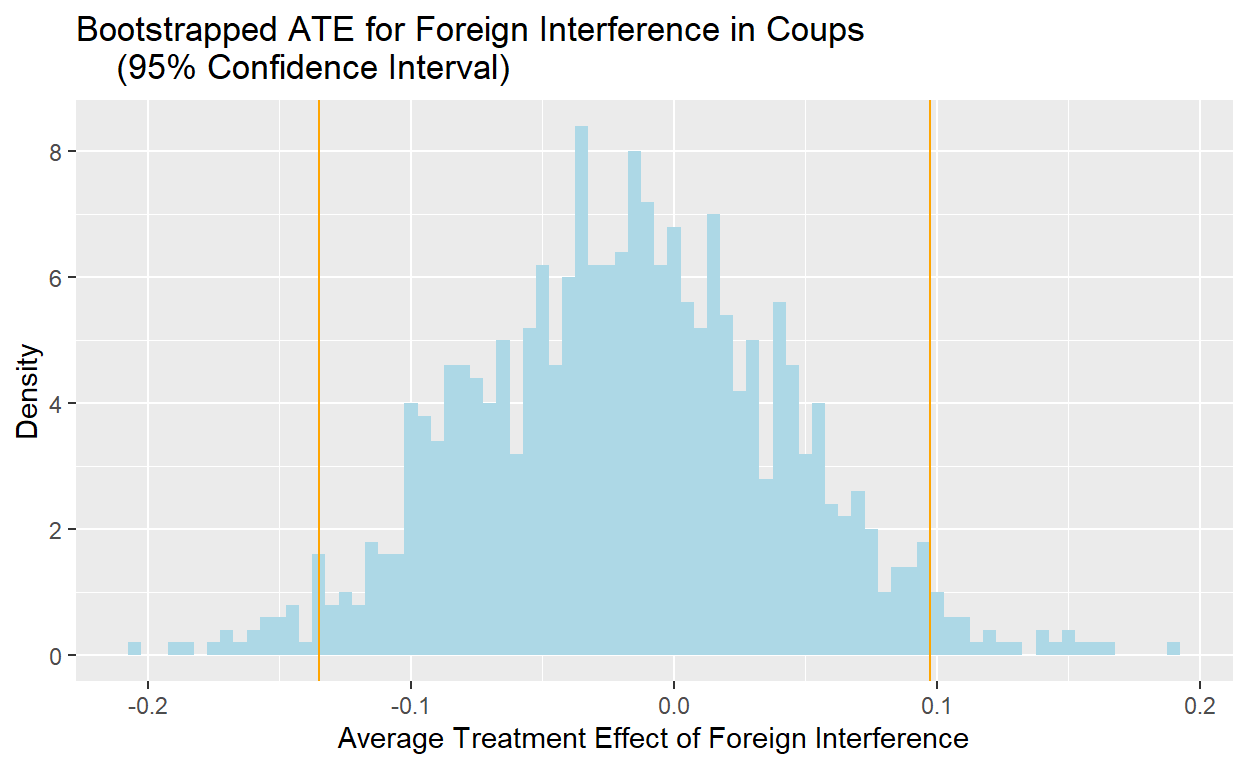
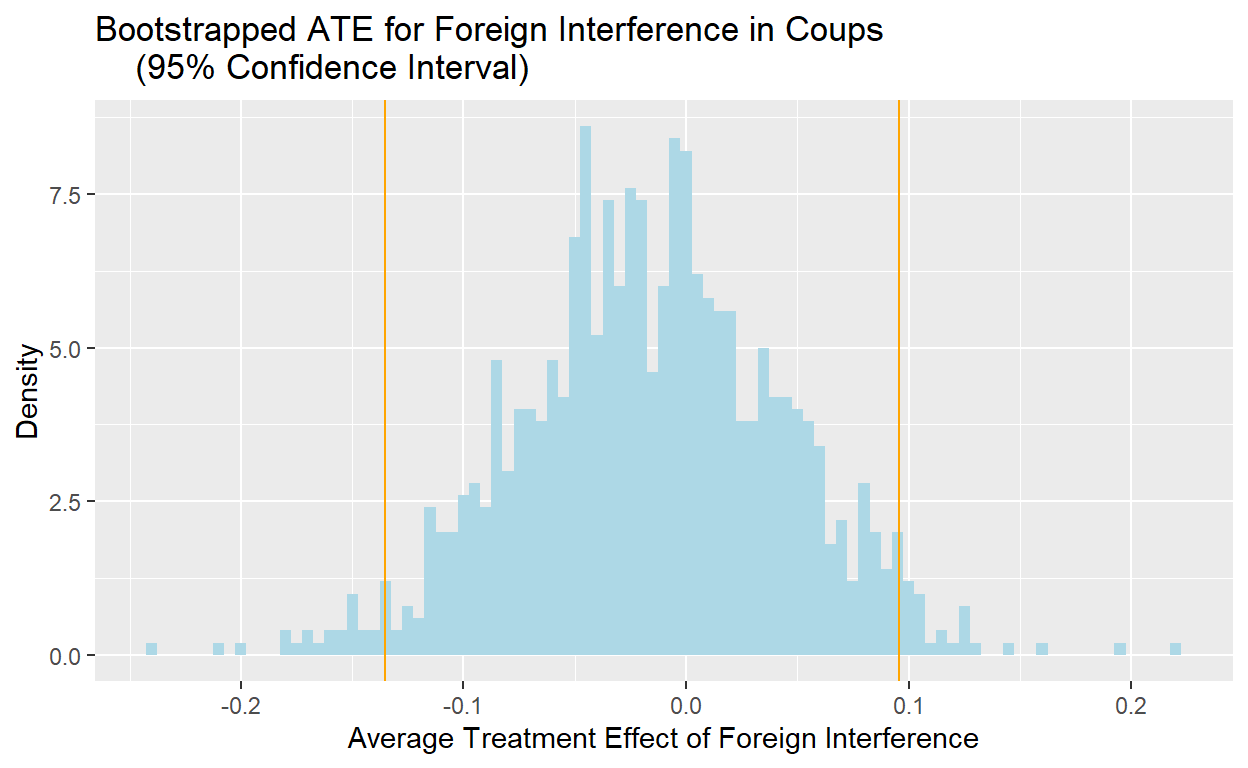
Commit

diff --git a/index.html b/index.html
@@ -1673,8 +1673,8 @@ code span.wa { color: #5e5e5e; font-style: italic; } /* Warning */
 </thead>
 <tbody>
 <tr class="odd">
-<td style="text-align: right;">-0.1350887</td>
-<td style="text-align: right;">0.0973908</td>
+<td style="text-align: right;">-0.1354401</td>
+<td style="text-align: right;">0.095753</td>
 </tr>
 </tbody>
 </table>
@@ -1701,7 +1701,7 @@ code span.wa { color: #5e5e5e; font-style: italic; } /* Warning */
 <p>To generate the most accurate model to determine the effect of foreign backing on coup outcomes, I will be running a regression with the independent variable ‘foreign’.</p>
 <div class="layout-chunk" data-layout="l-body">
 <div class="sourceCode">
-<pre class="sourceCode r"><code class="sourceCode r"><span><span class='co'>## Main Variable Regression Model for Foreign Difference in Means</span></span>
+<pre class="sourceCode r"><code class="sourceCode r"><span><span class='co'>## Main Variable Regression Model for Foreign</span></span>
 <span></span>
 <span><span class='va'>regression_model</span> <span class='op'>&lt;-</span> <span class='fu'><a href='https://rdrr.io/r/stats/lm.html'>lm</a></span><span class='op'>(</span>formula <span class='op'>=</span> <span class='va'>realized</span> <span class='op'>~</span> <span class='va'>foreign</span>, data <span class='op'>=</span> <span class='va'>coup_data</span><span class='op'>)</span></span>
 <span></span>
@@ -1803,7 +1803,7 @@ R2 Adj.
 <p>Additionally, this linear regression only takes into account the ‘foreign’ variable and does not consider the impact of confounding variables, such as military involvement or rebellions. These confounders can influence both the independent variable of foreign involvement and dependent variable of coup outcome. For example, having a military supporting a coup attempt could influence a foreign government to support the attempt, as they view a military coup as more likely to succeed. Additionally, having a military or powerful domestic officials in a country support a coup could lead to an increased likelihood of success, with or without foreign backing. In order to gain a more accurate picture of the effects of foreign backing on the success rate of coups, I would need to control for these confounding variables. As such, more analysis is needed and in the next section, I will be running a multiple regression to account for such confounders.</p>
 <div class="layout-chunk" data-layout="l-body">
 <div class="sourceCode">
-<pre class="sourceCode r"><code class="sourceCode r"><span><span class='co'>## Multiple Regression Model for Foreign Difference in Means</span></span>
+<pre class="sourceCode r"><code class="sourceCode r"><span><span class='co'>## Multiple Regression Model</span></span>
 <span></span>
 <span><span class='va'>regression_model</span> <span class='op'>&lt;-</span> <span class='fu'><a href='https://rdrr.io/r/stats/lm.html'>lm</a></span><span class='op'>(</span>formula <span class='op'>=</span> <span class='va'>realized</span> <span class='op'>~</span> <span class='va'>foreign</span> <span class='op'>+</span> <span class='va'>military</span> <span class='op'>+</span> </span>
 <span>                         <span class='va'>rebel</span> <span class='op'>+</span> <span class='va'>dissident</span> <span class='op'>+</span> <span class='va'>palace</span> <span class='op'>+</span> <span class='va'>auto</span> <span class='op'>+</span> <span class='va'>resign</span> <span class='op'>+</span> <span class='va'>popular</span> <span class='op'>+</span> <span class='va'>counter</span> <span class='op'>+</span> <span class='va'>other</span>, data <span class='op'>=</span> <span class='va'>coup_data</span><span class='op'>)</span></span>
